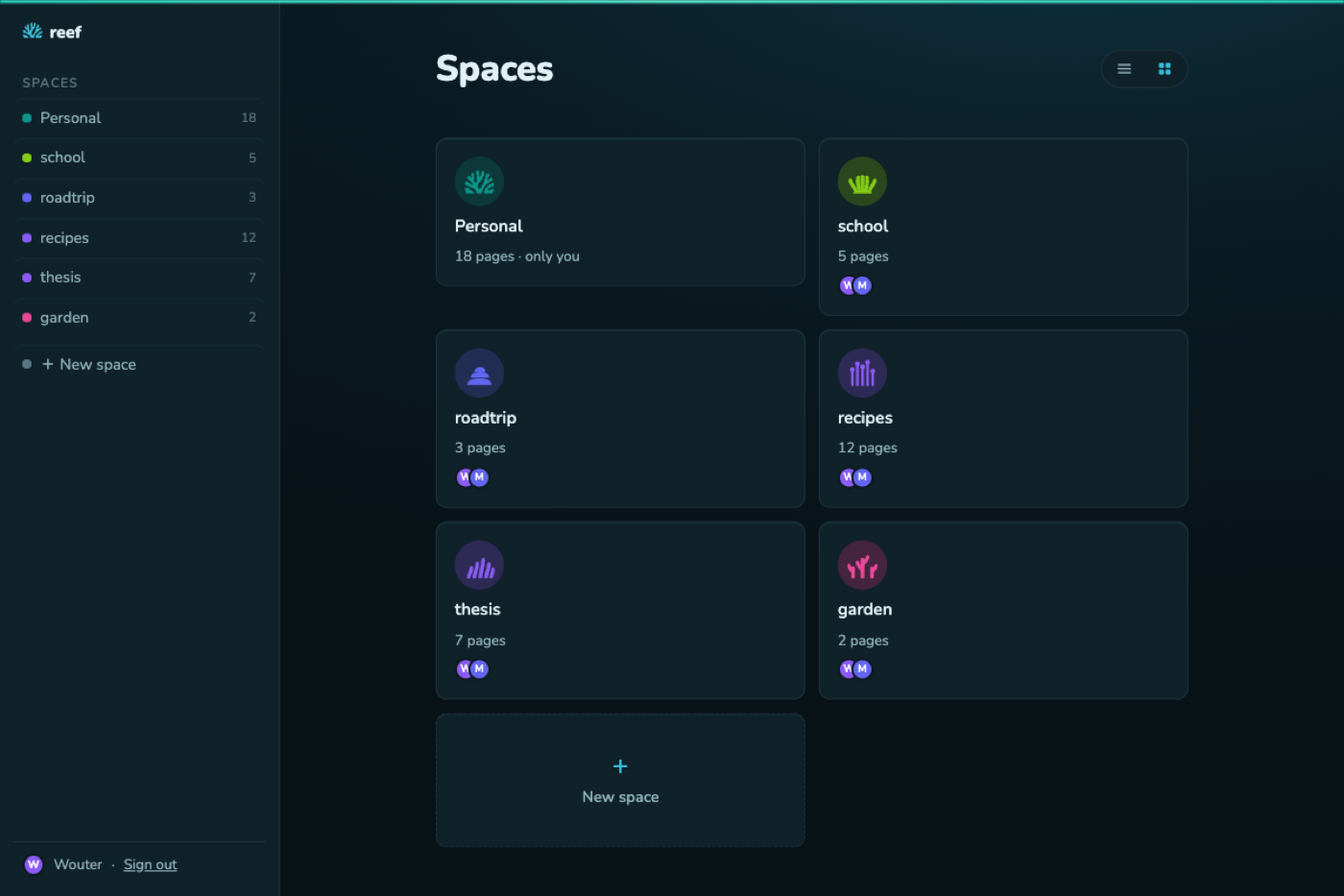
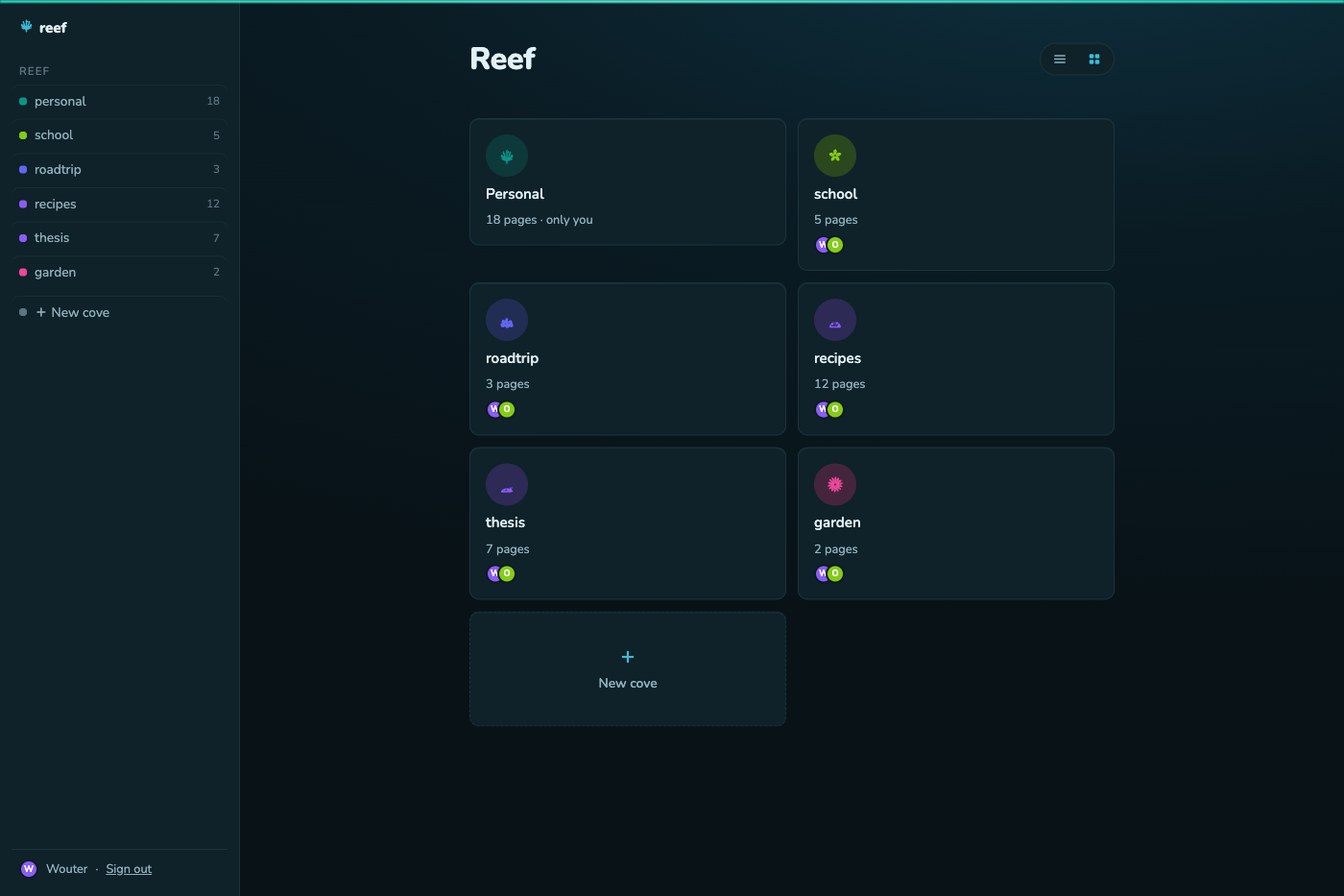
feat: marketing page on the new reef language — real organisms, cove copy, fresh shots
Inline defs are emitted from organisms.ts (scripts/emit-site-organisms.ts)
so the site shows exactly what those coves would grow: household/bubbles,
schoolrun/nudibranch, accountant/scallop, trip/staghorn, personal coral.
Strip shows all 11 families plus the brand coral; a 6-organism variant
swaps in under 640px. App screenshots recaptured from the redesigned app
(light + night-dive dark).

diff --git a/site/index.html b/site/index.html
@@ -4,7 +4,7 @@
 <meta charset="utf-8">
 <meta name="viewport" content="width=device-width, initial-scale=1">
 <title>reef — memory you grow together</title>
-<meta name="description" content="reef is a shared, living memory for you and your people — one your AI assistant can read and write. Spaces for your household, your plans, your life.">
+<meta name="description" content="reef is a shared, living memory for you and your people — one your AI assistant can read and write. Coves for your household, your plans, your life.">
 <link rel="icon" type="image/svg+xml" href="/favicon.svg">
 <style>
 @font-face {
@@ -21,7 +21,7 @@
   --field: #ffffff; --night: var(--ground);
   --cta-ink: #ffffff;
   --seafoam: #0d9488; --amber: #f59e0b; --indigo: #6366f1; --pink: #ec4899;
-  --sky: #0284c7; --lime: #84cc16; --violet: #8b5cf6;
+  --sky: #0284c7; --lime: #84cc16; --violet: #8b5cf6; --orange: #f97316;
 }
 @media (prefers-color-scheme: dark) {
   :root {
@@ -32,7 +32,7 @@
     --night: radial-gradient(120% 80% at 80% -10%, #0e3140, #0a1b23 45%, #081217);
     --cta-ink: #06282e;
     --seafoam: #2dd4bf; --amber: #fbbf24; --indigo: #a5b4fc; --pink: #f9a8d4;
-    --sky: #7dd3fc; --lime: #bef264; --violet: #c4b5fd;
+    --sky: #7dd3fc; --lime: #bef264; --violet: #c4b5fd; --orange: #fdba74;
   }
 }
 * { box-sizing: border-box; }
@@ -70,8 +70,10 @@ nav .cta { margin-left: auto; }
 .hero .btn { font-size: 1.05rem; padding: 0.75rem 1.8rem; }
 .hero .micro { font-size: 0.85rem; color: var(--faint); margin: 0; }
 
-/* seabed strip */
+/* seabed strip — full reef on desktop, a closer crop under 640px */
 .strip { display: block; width: 100%; height: auto; margin-top: 2.5rem; }
+.strip-m { display: none; }
+@media (max-width: 640px) { .strip-d { display: none; } .strip-m { display: block; } }
 .strip .bed { stroke: var(--accent); opacity: 0.5; }
 .sway { transform-box: fill-box; transform-origin: 50% 100%; animation: sway 5.5s ease-in-out infinite alternate; }
 @keyframes sway { from { transform: rotate(-2.4deg); } to { transform: rotate(2.4deg); } }
@@ -121,12 +123,12 @@ footer a { color: var(--muted); }
 </style>
 </head>
 <body>
-<svg width="0" height="0" style="position:absolute" aria-hidden="true"><defs><g id="o-coral"><g fill="currentColor"><g transform="translate(3.400,13.333) scale(0.17544)"><g transform="translate(0,314) scale(0.1,-0.1)"><path d="M1441 2805 c-40 -8 -78 -18 -84 -24 -7 -7 2 -69 29 -203 37 -181 39 -204 39 -368 0 -197 -16 -264 -76 -315 -39 -32 -54 -32 -89 3 -48 49 -55 94 -52 329 2 133 -1 234 -8 270 -18 92 -50 181 -67 187 -23 9 -173 -76 -173 -99 0 -2 14 -44 30 -93 67 -200 21 -303 -75 -169 -75 103 -95 127 -107 127 -17 0 -76 -70 -126 -149 l-46 -74 40 -33 c21 -19 84 -64 139 -101 129 -88 205 -165 249 -255 85 -170 11 -184 -169 -32 -124 104 -279 194 -334 194 -23 0 -41 -51 -62 -175 -16 -96 -12 -103 81 -126 83 -21 185 -67 300 -134 41 -24 118 -60 170 -80 52 -20 113 -47 135 -60 93 -54 180 -182 209 -304 8 -33 17 -64 21 -70 4 -7 72 -11 200 -11 219 0 198 -9 210 90 10 77 60 231 105 320 122 241 339 440 633 581 60 28 111 58 114 66 10 25 -78 187 -104 191 -14 2 -55 -24 -130 -84 -155 -125 -204 -149 -219 -109 -16 39 61 187 158 306 68 84 68 84 -24 160 -91 75 -105 80 -134 44 -73 -90 -138 -252 -198 -490 -24 -95 -60 -211 -79 -257 -77 -191 -251 -441 -325 -469 -90 -35 -154 173 -104 338 28 91 81 171 202 304 121 133 179 229 224 369 54 167 84 341 62 359 -35 29 -199 61 -211 41 -4 -7 -11 -67 -16 -134 -12 -185 -46 -296 -102 -330 -41 -25 -60 53 -78 304 -6 85 -16 161 -21 168 -13 15 -41 14 -137 -3z M2640 1847 c-341 -121 -578 -377 -645 -698 -26 -122 -64 -109 315 -109 l330 0 19 31 c33 53 92 247 89 287 l-3 37 -75 -1 c-70 -2 -81 -5 -206 -69 -148 -75 -187 -81 -192 -32 -14 119 253 306 439 307 68 0 74 13 61 132 -17 156 -16 156 -132 115z M495 1478 c-14 -37 56 -301 106 -400 l19 -38 300 0 c331 0 315 -4 279 65 -38 72 -107 133 -204 179 -49 24 -119 65 -155 91 -100 74 -182 109 -267 113 -57 3 -74 1 -78 -10z"/></g></g></g></g><g id="o-anemone"><path d="M19 50c0-3.5 5.5-5.5 13-5.5s13 2 13 5.5z" fill="currentColor"/><g stroke="currentColor" stroke-width="5.2" stroke-linecap="round" fill="none"><path d="M22 45c-2-5-6-8-7-13"/><path d="M27 44c-1-6-2-10-1-16"/><path d="M32 44c0-7 0-11 0-17"/><path d="M37 44c1-6 2-10 1-16"/><path d="M42 45c2-5 6-8 7-13"/></g></g><g id="o-staghorn"><g stroke="currentColor" stroke-width="5" stroke-linecap="round" fill="none"><path d="M32 50V26"/><path d="M32 34C32 29 38 29 39 22"/><path d="M32 42C32 37 26 37 25 30"/><path d="M19 50V38"/><path d="M19 44C19 40 14 40 13 34"/><path d="M45 50V38"/><path d="M45 44C45 40 50 40 51 34"/></g></g><g id="o-kelp"><g stroke="currentColor" stroke-width="5" stroke-linecap="round" fill="none"><path d="M17 50c1-5 4-8 4-13"/><path d="M25 50c1-7 4-11 4-19"/><path d="M33 50c1-9 4-14 4-24"/><path d="M41 50c1-7 4-11 4-18"/><path d="M48 50c1-4 3-7 3-11"/></g></g><g id="o-polyps"><g stroke="currentColor" stroke-width="3.6" stroke-linecap="round" fill="none"><path d="M18 50V33"/><path d="M25 50V25"/><path d="M32 50V29"/><path d="M39 50V23"/><path d="M46 50V35"/></g><g fill="currentColor"><circle cx="18" cy="29" r="3.3"/><circle cx="25" cy="21" r="3.3"/><circle cx="32" cy="25" r="3.3"/><circle cx="39" cy="19" r="3.3"/><circle cx="46" cy="31" r="3.3"/></g></g><g id="o-seagrass"><g fill="currentColor"><path d="M15 50c-1-8 1-14 4-20c1 7 0 14-1 20z"/><path d="M23 50c-1-11 1-19 5-27c2 9 0 19-2 27z"/><path d="M31 50c-1-13 2-22 6-32c2 11-1 22-3 32z"/><path d="M40 50c-1-10 1-17 5-24c2 8 0 16-2 24z"/><path d="M48 50c-1-7 1-12 4-17c1 6 0 11-1 17z"/></g></g><g id="o-brain"><g fill="currentColor"><path d="M15 50c-0.5-6 6-9 17-9c11 0 17 3 16.5 9z"/><path d="M20 40c0-5.5 5-8 13-8c8 0 12.5 2.5 12 8z"/><path d="M25 32c0-4.5 3.5-6.5 8-6.5c4.5 0 7.5 2 7 6.5z"/></g></g></defs></svg>
+<svg width="0" height="0" style="position:absolute" aria-hidden="true"><defs><g id="o-coral"><path d="M32 54V46M32 46Q23.5 44.2 17.9 40.9M32 46Q23.1 40.8 17.2 31.2M32 46Q26.2 37.6 22.3 21.9M32 46Q32 35.8 32 17M32 46Q37.8 37.6 41.7 21.9M32 46Q40.9 40.8 46.8 31.2M32 46Q40.5 44.2 46.1 40.9M23.1 37.1Q19.5 36.2 16.5 34.7M40.9 37.1Q44.5 36.2 47.5 34.7M32 27Q34.2 23.5 35.5 20.9" fill="none" stroke="currentColor" stroke-width="4.4" stroke-linecap="round" stroke-linejoin="round"/></g><g id="o-sunAnemone"><path d="M38.25 32.61C46.6 33.73 50.98 30.75 50.48 28.28C49.98 25.81 44.79 24.76 37.53 29.02ZM37.25 35.44C44.12 40.32 49.39 39.71 50.09 37.29C50.8 34.88 46.69 31.53 38.28 31.93ZM35.05 37.49C38.87 45 43.81 46.91 45.56 45.1C47.31 43.28 45.23 38.41 37.59 34.85ZM32.15 38.28C32.04 46.7 35.53 50.69 37.92 49.9C40.31 49.11 40.73 43.83 35.62 37.13ZM29.21 37.63C25.21 45.04 26.44 50.19 28.93 50.6C31.41 51.01 34.24 46.53 32.83 38.22ZM26.92 35.69C19.93 40.39 18.63 45.52 20.63 47.04C22.64 48.56 27.23 45.91 29.84 37.9ZM25.79 32.9C17.41 33.81 13.87 37.76 14.95 40.04C16.02 42.31 21.31 42.1 27.35 36.22ZM26.08 29.91C18.24 26.83 13.27 28.67 13.17 31.19C13.06 33.71 17.85 35.97 25.92 33.57ZM27.73 27.4C22.22 21.02 16.96 20.35 15.7 22.53C14.43 24.71 17.62 28.94 25.89 30.57ZM30.35 25.94C28.44 17.74 24.1 14.7 21.97 16.04C19.84 17.38 20.69 22.61 27.25 27.89ZM33.36 25.87C35.48 17.72 33.04 13.01 30.53 13.21C28.02 13.4 26.35 18.43 29.71 26.16ZM36.05 27.2C41.72 20.97 41.75 15.67 39.44 14.68C37.12 13.68 33.3 17.36 32.69 25.76ZM37.82 29.64C45.73 26.75 48.22 22.07 46.63 20.12C45.05 18.16 39.96 19.64 35.51 26.79Z" fill="currentColor"/><path d="M24.49 32A7.51 7.51 0 1 0 39.51 32A7.51 7.51 0 1 0 24.49 32ZM29.01 32A2.99 2.99 0 1 0 34.99 32A2.99 2.99 0 1 0 29.01 32Z" fill="currentColor" fill-rule="evenodd"/></g><g id="o-tubes"><path d="M13.39 54L11.1 36.04A4.28 1.93 0 0 1 19.66 36.04L21.52 54ZM12.81 36.04A2.57 1.16 0 1 0 17.95 36.04A2.57 1.16 0 1 0 12.81 36.04Z" fill="currentColor" fill-rule="evenodd"/><path d="M20.75 54L22.58 27.04A4.07 1.83 0 0 1 30.72 27.04L28.49 54ZM24.21 27.04A2.44 1.1 0 1 0 29.09 27.04A2.44 1.1 0 1 0 24.21 27.04Z" fill="currentColor" fill-rule="evenodd"/><path d="M27.15 54L27.73 25.96A4.43 1.99 0 0 1 36.58 25.96L35.56 54ZM29.5 25.96A2.66 1.19 0 1 0 34.81 25.96A2.66 1.19 0 1 0 29.5 25.96Z" fill="currentColor" fill-rule="evenodd"/><path d="M34.75 54L36.54 31.62A3.88 1.74 0 0 1 44.29 31.62L42.11 54ZM38.09 31.62A2.33 1.05 0 1 0 42.74 31.62A2.33 1.05 0 1 0 38.09 31.62Z" fill="currentColor" fill-rule="evenodd"/><path d="M42.51 54L41.06 26.4A4.4 1.98 0 0 1 49.86 26.4L50.88 54ZM42.82 26.4A2.64 1.19 0 1 0 48.1 26.4A2.64 1.19 0 1 0 42.82 26.4Z" fill="currentColor" fill-rule="evenodd"/></g><g id="o-staghorn"><path d="M32 54V45.8M32 45.8Q28.51 38.59 16.21 27.79M25.43 38.31Q24.98 33.88 24.68 30.92M20.41 32.58Q15.02 31.57 11.42 30.89M32 45.8Q38.68 39.47 44.77 29.97M37.62 38.83Q37.76 34.9 37.85 32.27M41.2 34.39Q47.06 33.5 50.97 32.9" fill="none" stroke="currentColor" stroke-width="4" stroke-linecap="round" stroke-linejoin="round"/></g><g id="o-brain"><path d="M15.53 54A16.47 15.88 0 0 1 48.47 54ZM21.49 51.41A1.7 1.7 0 0 1 21.28 48.02L34.45 47.19A1.7 1.7 0 0 1 34.67 50.58ZM27.87 46.94A1.7 1.7 0 0 1 27.88 43.54L38.97 43.58A1.7 1.7 0 0 1 38.95 46.98ZM27.35 44.06A1.7 1.7 0 0 1 27.12 40.67L33.28 40.26A1.7 1.7 0 0 1 33.51 43.65Z" fill="currentColor" fill-rule="evenodd"/></g><g id="o-flower"><path d="M35.3 34.31C44.4 37.28 49.33 33.65 48.89 29.98C48.45 26.31 42.8 23.94 34.66 28.98ZM31.65 36.01C33.62 45.38 39.24 47.83 42.19 45.62C45.15 43.4 44.38 37.33 35.95 32.79ZM28.35 33.7C21.22 40.1 21.91 46.18 25.31 47.64C28.7 49.09 33.58 45.39 33.29 35.82ZM28.7 29.69C19.6 26.72 14.67 30.35 15.11 34.02C15.55 37.69 21.2 40.06 29.34 35.02ZM32.35 27.99C30.38 18.62 24.76 16.17 21.81 18.38C18.85 20.6 19.62 26.67 28.05 31.21ZM35.65 30.3C42.78 23.9 42.09 17.82 38.69 16.36C35.3 14.91 30.42 18.61 30.71 28.18Z" fill="currentColor"/><path d="M26 32A6 6 0 1 0 38 32A6 6 0 1 0 26 32ZM28.43 32A3.57 3.57 0 1 0 35.57 32A3.57 3.57 0 1 0 28.43 32Z" fill="currentColor" fill-rule="evenodd"/></g><g id="o-scallop"><path d="M32 45Q24.14 43.55 22.25 42.36M32 45Q25.08 40.58 22.45 36.96M32 45Q27.87 37.91 26 32.11M32 45Q32 36.83 32 30.14M32 45Q36.13 37.91 38 32.11M32 45Q38.92 40.58 41.55 36.96M32 45Q39.86 43.55 41.75 42.36" fill="none" stroke="currentColor" stroke-width="3.42" stroke-linecap="round" stroke-linejoin="round"/><path d="M27.5 54C27.5 49 29.5 47 30 45L34 45C34.5 47 36.5 49 36.5 54Z" fill="currentColor"/></g><g id="o-spiral"><path d="M28.96 32.36Q23.15 29.23 22.19 21.5M29.11 31.01Q25.23 25.66 27.72 18.29M29.82 29.85Q28.65 23.35 34.09 17.78M30.97 29.12Q32.73 22.75 40.05 20.1M32.32 28.96Q36.67 23.98 44.42 24.77M33.61 29.4Q39.69 26.81 46.32 30.87M34.58 30.36Q41.18 30.66 45.39 37.2M35.04 31.64Q40.85 34.77 41.81 42.5M34.89 32.99Q38.77 38.34 36.28 45.71M34.18 34.15Q35.35 40.65 29.91 46.22M33.03 34.88Q31.27 41.25 23.95 43.9M31.68 35.04Q27.33 40.02 19.58 39.23M30.39 34.6Q24.31 37.19 17.68 33.13M29.42 33.64Q22.82 33.34 18.61 26.8" fill="none" stroke="currentColor" stroke-width="3.09" stroke-linecap="round" stroke-linejoin="round"/></g><g id="o-bubbles"><path d="M15.29 48.39A6.54 6.54 0 1 0 28.38 48.39A6.54 6.54 0 1 0 15.29 48.39ZM25.02 47.68A6.54 6.54 0 1 0 38.11 47.68A6.54 6.54 0 1 0 25.02 47.68ZM37.02 47.31A6.54 6.54 0 1 0 50.11 47.31A6.54 6.54 0 1 0 37.02 47.31ZM14.92 37.22A6.29 6.29 0 1 0 27.51 37.22A6.29 6.29 0 1 0 14.92 37.22ZM24.99 37.05A6.29 6.29 0 1 0 37.57 37.05A6.29 6.29 0 1 0 24.99 37.05ZM35.9 36.55A6.29 6.29 0 1 0 48.48 36.55A6.29 6.29 0 1 0 35.9 36.55ZM26.65 28.77A4.48 4.48 0 1 0 35.62 28.77A4.48 4.48 0 1 0 26.65 28.77Z" fill="currentColor"/></g><g id="o-seagrass"><path d="M13.56 54C13.91 40.39 7.71 31.31 8.96 23.75C9.49 32.82 20.49 41.9 20.67 54ZM19.26 54C19.63 43.65 15.49 36.75 16.8 31C17.36 37.9 26.55 44.8 26.74 54ZM24.8 54C25.1 40.95 18.96 32.25 20.03 25C20.48 33.7 30.73 42.4 30.88 54ZM31.28 54C31.62 40.64 25.55 31.73 26.77 24.31C27.29 33.22 38.1 42.12 38.27 54ZM36.68 54C37.01 41.66 31.4 33.44 32.53 26.59C33.02 34.81 43 43.04 43.16 54ZM44.52 54C44.91 45.65 42.05 40.09 43.42 35.45C44 41.02 52.12 46.58 52.31 54Z" fill="currentColor"/></g><g id="o-shell"><path d="M32 52L17.48 42.55A3.07 3.07 0 0 1 20.71 38.87A3.07 3.07 0 0 1 24.84 36.23A3.07 3.07 0 0 1 29.55 34.86A3.07 3.07 0 0 1 34.45 34.86A3.07 3.07 0 0 1 39.16 36.23A3.07 3.07 0 0 1 43.29 38.87A3.07 3.07 0 0 1 46.52 42.55ZM30.24 47.44A1.1 1.1 0 0 1 28.42 48.68L23.07 40.8A1.1 1.1 0 0 1 24.89 39.56ZM32.14 47.11A1.1 1.1 0 0 1 29.98 47.55L28.1 38.21A1.1 1.1 0 0 1 30.26 37.78ZM34.02 47.55A1.1 1.1 0 0 1 31.86 47.11L33.74 37.78A1.1 1.1 0 0 1 35.9 38.21ZM35.58 48.68A1.1 1.1 0 0 1 33.76 47.44L39.11 39.56A1.1 1.1 0 0 1 40.93 40.8Z" fill="currentColor" fill-rule="evenodd"/></g><g id="o-nudibranch"><path d="M17.88 54C17.88 49.78 24.94 42.63 32 42.63C39.76 42.63 46.12 47.75 46.12 50.59C46.12 53.43 40.47 54 32 54ZM23.55 48.65A1.39 1.39 0 1 0 26.33 48.65A1.39 1.39 0 1 0 23.55 48.65ZM26.86 49.56A1.26 1.26 0 1 0 29.38 49.56A1.26 1.26 0 1 0 26.86 49.56ZM30.08 48.45A1.22 1.22 0 1 0 32.51 48.45A1.22 1.22 0 1 0 30.08 48.45ZM32.94 49.78A1.53 1.53 0 1 0 36 49.78A1.53 1.53 0 1 0 32.94 49.78Z" fill="currentColor" fill-rule="evenodd"/><path d="M42.16 45.13C43.16 42.13 44.16 41.13 44.66 39.13M38.16 45.13C39.16 42.13 40.16 41.13 40.66 39.13" fill="none" stroke="currentColor" stroke-width="2.2" stroke-linecap="round" stroke-linejoin="round"/></g><g id="o-cove-household"><path d="M13.44 46.61A7.2 7.2 0 1 0 27.83 46.61A7.2 7.2 0 1 0 13.44 46.61ZM25.29 46.94A7.2 7.2 0 1 0 39.69 46.94A7.2 7.2 0 1 0 25.29 46.94ZM37.68 47.17A7.2 7.2 0 1 0 52.08 47.17A7.2 7.2 0 1 0 37.68 47.17ZM17.65 37.17A5.03 5.03 0 1 0 27.7 37.17A5.03 5.03 0 1 0 17.65 37.17ZM26.91 37.7A5.03 5.03 0 1 0 36.96 37.7A5.03 5.03 0 1 0 26.91 37.7ZM35.14 37.28A5.03 5.03 0 1 0 45.19 37.28A5.03 5.03 0 1 0 35.14 37.28ZM21.99 28.84A5 5 0 1 0 31.99 28.84A5 5 0 1 0 21.99 28.84ZM32.05 30.33A5 5 0 1 0 42.05 30.33A5 5 0 1 0 32.05 30.33Z" fill="currentColor"/></g><g id="o-cove-schoolrun"><path d="M16.15 54C16.15 48.48 24.08 43.77 32 43.77C40.72 43.77 47.85 48.37 47.85 50.93C47.85 53.49 41.51 54 32 54ZM22.89 50.13A1.19 1.19 0 1 0 25.26 50.13A1.19 1.19 0 1 0 22.89 50.13ZM29.63 48.25A1.58 1.58 0 1 0 32.79 48.25A1.58 1.58 0 1 0 29.63 48.25Z" fill="currentColor" fill-rule="evenodd"/><path d="M43.41 46.02C44.41 43.02 45.41 42.02 45.91 40.02M39.41 46.02C40.41 43.02 41.41 42.02 41.91 40.02" fill="none" stroke="currentColor" stroke-width="2.2" stroke-linecap="round" stroke-linejoin="round"/></g><g id="o-cove-accountant"><path d="M32 45Q24.16 44.01 22.29 43.21M32 45Q24.97 40.97 22.26 37.67M32 45Q27.75 38.16 25.8 32.57M32 45Q32 37.01 32 30.48M32 45Q36.25 38.16 38.2 32.57M32 45Q39.03 40.97 41.74 37.67M32 45Q39.84 44.01 41.71 43.21" fill="none" stroke="currentColor" stroke-width="3.58" stroke-linecap="round" stroke-linejoin="round"/><path d="M27.5 54C27.5 49 29.5 47 30 45L34 45C34.5 47 36.5 49 36.5 54Z" fill="currentColor"/></g><g id="o-cove-trip"><path d="M32 54V47.32M32 47.32Q27.9 41.74 15.43 33.36M25.31 41.68Q24.87 38.07 24.57 35.67M21.2 38.22Q16.95 37.92 14.11 37.73M32 47.32Q35.59 37.14 33.68 21.88M32.71 36.53Q28.92 32.18 26.39 29.28M33.25 28.49Q36.29 24.85 38.32 22.42M32 47.32Q40.14 41.33 50.19 32.33M38.19 42.22Q43.21 42.95 46.56 43.44M43.92 37.5Q45.95 32.31 47.3 28.86" fill="none" stroke="currentColor" stroke-width="4" stroke-linecap="round" stroke-linejoin="round"/></g></defs></svg>
 
 <div class="wrap">
   <nav>
     <a class="brand" href="/">
-      <svg viewBox="11 15.5 42 34.5" width="24" height="20" preserveAspectRatio="xMidYMax meet" aria-hidden="true"><use href="#o-coral"/></svg>
+      <svg viewBox="11 11.5 42 45" width="20" height="21" preserveAspectRatio="xMidYMax meet" aria-hidden="true"><use href="#o-coral"/></svg>
       reef
     </a>
     <span class="cta"><a class="btn" href="/api/auth/login">Sign in</a></span>
@@ -135,7 +137,7 @@ footer a { color: var(--muted); }
   <header class="hero">
     <h1>Memory you grow together.</h1>
     <p class="lede">reef is a shared, living memory for you and your people — and for the AI you
-      both talk to. Spaces for your household, your plans, your life. Pages everyone can read.
+      both talk to. Coves for your household, your plans, your life. Pages everyone can read.
       An assistant that finally remembers.</p>
     <div class="ctarow">
       <a class="btn" href="/api/auth/login">Sign in</a>
@@ -144,19 +146,23 @@ footer a { color: var(--muted); }
   </header>
 </div>
 
-<svg class="strip" viewBox="0 0 1200 78" preserveAspectRatio="xMidYMax meet" aria-hidden="true">
+<svg class="strip strip-d" viewBox="0 0 1200 78" preserveAspectRatio="xMidYMax meet" aria-hidden="true">
   <line class="bed" x1="24" y1="64" x2="1176" y2="64" stroke-width="3" stroke-linecap="round"/>
-  <g transform="translate(60,64) scale(0.9) translate(-32,-50)" style="color:var(--sky)"><g class="sway" style="animation-delay:0s"><use href="#o-kelp"/></g></g><g transform="translate(150,64) scale(0.7) translate(-32,-50)" style="color:var(--lime)"><g class="sway" style="animation-delay:1.3s"><use href="#o-seagrass"/></g></g><g transform="translate(235,64) scale(1.0) translate(-32,-50)" style="color:var(--amber)"><g class="sway" style="animation-delay:0.6s"><use href="#o-anemone"/></g></g><g transform="translate(330,64) scale(0.8) translate(-32,-50)" style="color:var(--indigo)"><g class="sway" style="animation-delay:2.1s"><use href="#o-polyps"/></g></g><g transform="translate(430,64) scale(0.85) translate(-32,-50)" style="color:var(--violet)"><g class="sway" style="animation-delay:0s"><use href="#o-brain"/></g></g><g transform="translate(530,64) scale(1.05) translate(-32,-50)" style="color:var(--pink)"><g class="sway" style="animation-delay:1.7s"><use href="#o-staghorn"/></g></g><g transform="translate(640,64) scale(1.25) translate(-32,-50)" style="color:var(--seafoam)"><g class="sway" style="animation-delay:0.9s"><use href="#o-coral"/></g></g><g transform="translate(760,64) scale(0.75) translate(-32,-50)" style="color:var(--lime)"><g class="sway" style="animation-delay:2.4s"><use href="#o-kelp"/></g></g><g transform="translate(845,64) scale(0.85) translate(-32,-50)" style="color:var(--pink)"><g class="sway" style="animation-delay:0.3s"><use href="#o-anemone"/></g></g><g transform="translate(940,64) scale(1.0) translate(-32,-50)" style="color:var(--sky)"><g class="sway" style="animation-delay:1.5s"><use href="#o-seagrass"/></g></g><g transform="translate(1035,64) scale(0.7) translate(-32,-50)" style="color:var(--amber)"><g class="sway" style="animation-delay:2.0s"><use href="#o-polyps"/></g></g><g transform="translate(1120,64) scale(0.8) translate(-32,-50)" style="color:var(--indigo)"><g class="sway" style="animation-delay:0.8s"><use href="#o-staghorn"/></g></g>
+  <g transform="translate(60,64) scale(0.9) translate(-32,-54)" style="color:var(--sky)"><g class="sway" style="animation-delay:0s"><use href="#o-seagrass"/></g></g><g transform="translate(150,64) scale(0.7) translate(-32,-54)" style="color:var(--lime)"><g class="sway" style="animation-delay:1.3s"><use href="#o-bubbles"/></g></g><g transform="translate(235,64) scale(1.0) translate(-32,-51)" style="color:var(--amber)"><g class="sway" style="animation-delay:0.6s"><use href="#o-sunAnemone"/></g></g><g transform="translate(330,64) scale(0.8) translate(-32,-54)" style="color:var(--indigo)"><g class="sway" style="animation-delay:2.1s"><use href="#o-tubes"/></g></g><g transform="translate(430,64) scale(0.85) translate(-32,-54)" style="color:var(--violet)"><g class="sway" style="animation-delay:0s"><use href="#o-brain"/></g></g><g transform="translate(530,64) scale(1.05) translate(-32,-54)" style="color:var(--pink)"><g class="sway" style="animation-delay:1.7s"><use href="#o-staghorn"/></g></g><g transform="translate(640,64) scale(1.25) translate(-32,-54)" style="color:var(--seafoam)"><g class="sway" style="animation-delay:0.9s"><use href="#o-coral"/></g></g><g transform="translate(760,64) scale(0.75) translate(-32,-48)" style="color:var(--lime)"><g class="sway" style="animation-delay:2.4s"><use href="#o-flower"/></g></g><g transform="translate(845,64) scale(0.85) translate(-32,-54)" style="color:var(--pink)"><g class="sway" style="animation-delay:0.3s"><use href="#o-shell"/></g></g><g transform="translate(940,64) scale(1.0) translate(-32,-46.2)" style="color:var(--sky)"><g class="sway" style="animation-delay:1.5s"><use href="#o-spiral"/></g></g><g transform="translate(1035,64) scale(0.7) translate(-32,-54)" style="color:var(--amber)"><g class="sway" style="animation-delay:2.0s"><use href="#o-scallop"/></g></g><g transform="translate(1120,64) scale(0.8) translate(-32,-54)" style="color:var(--indigo)"><g class="sway" style="animation-delay:0.8s"><use href="#o-nudibranch"/></g></g>
+</svg>
+<svg class="strip strip-m" viewBox="0 0 600 78" preserveAspectRatio="xMidYMax meet" aria-hidden="true">
+  <line class="bed" x1="16" y1="64" x2="584" y2="64" stroke-width="3" stroke-linecap="round"/>
+  <g transform="translate(55,64) scale(0.85) translate(-32,-54)" style="color:var(--sky)"><g class="sway" style="animation-delay:0s"><use href="#o-seagrass"/></g></g><g transform="translate(150,64) scale(0.8) translate(-32,-51)" style="color:var(--amber)"><g class="sway" style="animation-delay:0.6s"><use href="#o-sunAnemone"/></g></g><g transform="translate(245,64) scale(0.75) translate(-32,-54)" style="color:var(--indigo)"><g class="sway" style="animation-delay:2.1s"><use href="#o-tubes"/></g></g><g transform="translate(340,64) scale(1.05) translate(-32,-54)" style="color:var(--seafoam)"><g class="sway" style="animation-delay:0.9s"><use href="#o-coral"/></g></g><g transform="translate(440,64) scale(0.9) translate(-32,-54)" style="color:var(--pink)"><g class="sway" style="animation-delay:1.7s"><use href="#o-staghorn"/></g></g><g transform="translate(540,64) scale(0.8) translate(-32,-48)" style="color:var(--lime)"><g class="sway" style="animation-delay:2.4s"><use href="#o-flower"/></g></g>
 </svg>
 
 <div class="wrap">
   <section>
-    <p class="eyebrow">Spaces</p>
-    <h2>A space for every circle of your life</h2>
-    <p class="sub">A space is a small group and its shared memory: the people you invite, the pages
+    <p class="eyebrow">Coves</p>
+    <h2>A cove for every circle of your life</h2>
+    <p class="sub">A cove is a small group and its shared memory: the people you invite, the pages
       you keep, its own color and creature. Start one for anything that has a "we" — and everyone
-      always keeps a private space that's theirs alone.</p>
-    <div class="circles"><div class="circle"><span class="pool"><svg viewBox="11 15 42 37" width="27" height="24" preserveAspectRatio="xMidYMax meet" style="color:var(--seafoam)" aria-hidden="true"><use href="#o-coral"/></svg></span><span>the household</span></div><div class="circle"><span class="pool"><svg viewBox="11 15 42 37" width="27" height="24" preserveAspectRatio="xMidYMax meet" style="color:var(--lime)" aria-hidden="true"><use href="#o-anemone"/></svg></span><span>school</span></div><div class="circle"><span class="pool"><svg viewBox="11 15 42 37" width="27" height="24" preserveAspectRatio="xMidYMax meet" style="color:var(--indigo)" aria-hidden="true"><use href="#o-brain"/></svg></span><span>the accountant</span></div><div class="circle"><span class="pool"><svg viewBox="11 15 42 37" width="27" height="24" preserveAspectRatio="xMidYMax meet" style="color:var(--sky)" aria-hidden="true"><use href="#o-kelp"/></svg></span><span>roadtrip</span></div><div class="circle"><span class="pool"><svg viewBox="11 15 42 37" width="27" height="24" preserveAspectRatio="xMidYMax meet" style="color:var(--violet)" aria-hidden="true"><use href="#o-polyps"/></svg></span><span>just you</span></div></div>
+      always keeps a private cove that's theirs alone.</p>
+    <div class="circles"><div class="circle"><span class="pool"><svg viewBox="0 0 64 64" width="28" height="28" style="color:var(--violet)" aria-hidden="true"><use href="#o-cove-household"/></svg></span><span>the household</span></div><div class="circle"><span class="pool"><svg viewBox="0 0 64 64" width="28" height="28" style="color:var(--pink)" aria-hidden="true"><use href="#o-cove-schoolrun"/></svg></span><span>the school run</span></div><div class="circle"><span class="pool"><svg viewBox="0 0 64 64" width="28" height="28" style="color:var(--indigo)" aria-hidden="true"><use href="#o-cove-accountant"/></svg></span><span>the accountant</span></div><div class="circle"><span class="pool"><svg viewBox="0 0 64 64" width="28" height="28" style="color:var(--orange)" aria-hidden="true"><use href="#o-cove-trip"/></svg></span><span>the trip</span></div><div class="circle"><span class="pool"><svg viewBox="0 0 64 64" width="28" height="28" style="color:var(--seafoam)" aria-hidden="true"><use href="#o-coral"/></svg></span><span>just you</span></div></div>
   </section>
 
   <section>
@@ -164,9 +170,9 @@ footer a { color: var(--muted); }
     <h2>Tell it once</h2>
     <div class="steps">
       <div class="step">
-        <h3>Start a space, invite your people</h3>
+        <h3>Start a cove, invite your people</h3>
         <p>Your household, the school circle, you and the accountant. Invites go by email; whoever
-          starts a space looks after it.</p>
+          starts a cove looks after it.</p>
       </div>
       <div class="step">
         <h3>Grow pages together</h3>
@@ -184,12 +190,12 @@ footer a { color: var(--muted); }
   <section>
     <p class="eyebrow">The app</p>
     <h2>Browse it like people do</h2>
-    <p class="sub">Every space and page is right there in the browser — read, edit, invite, export.
+    <p class="sub">Every cove and page is right there in the browser — read, edit, invite, export.
       What your assistant knows is exactly what you can see.</p>
     <div class="shotframe">
       <div class="shotbar"><i></i><i></i><i></i></div>
-      <img class="shot-light" src="/site/app-light.png" alt="The reef app: spaces shown as tiles, each with its own color and reef creature" width="1400" height="933">
-      <img class="shot-dark" src="/site/app-dark.png" alt="The reef app in night-dive dark mode: glowing space tiles on a deep-water background" width="1400" height="933">
+      <img class="shot-light" src="/site/app-light.png" alt="The reef app: coves shown as tiles, each with its own color and reef creature" width="1400" height="933">
+      <img class="shot-dark" src="/site/app-dark.png" alt="The reef app in night-dive dark mode: glowing cove tiles on a deep-water background" width="1400" height="933">
     </div>
   </section>
 
@@ -198,17 +204,17 @@ footer a { color: var(--muted); }
     <h2>Built to be trusted with a life</h2>
     <div class="trust">
       <article>
-        <h3><svg viewBox="11 15 42 37" width="20" height="18" preserveAspectRatio="xMidYMax meet" style="color:var(--indigo)" aria-hidden="true"><use href="#o-polyps"/></svg> Private by architecture</h3>
-        <p>Your personal space is invisible to everyone else — enforced row by row in the database
+        <h3><svg viewBox="0 0 64 64" width="20" height="20" style="color:var(--indigo)" aria-hidden="true"><use href="#o-shell"/></svg> Private by architecture</h3>
+        <p>Your personal cove is invisible to everyone else — enforced row by row in the database
           itself, not by app code promising to behave.</p>
       </article>
       <article>
-        <h3><svg viewBox="11 15 42 37" width="20" height="18" preserveAspectRatio="xMidYMax meet" style="color:var(--amber)" aria-hidden="true"><use href="#o-anemone"/></svg> Sharing is consent</h3>
-        <p>Nothing moves from private to shared without an explicit yes, and a shared space always
+        <h3><svg viewBox="0 0 64 64" width="20" height="20" style="color:var(--amber)" aria-hidden="true"><use href="#o-flower"/></svg> Sharing is consent</h3>
+        <p>Nothing moves from private to shared without an explicit yes, and a shared cove always
           shows exactly who can read it.</p>
       </article>
       <article>
-        <h3><svg viewBox="11 15 42 37" width="20" height="18" preserveAspectRatio="xMidYMax meet" style="color:var(--lime)" aria-hidden="true"><use href="#o-seagrass"/></svg> Leave with everything</h3>
+        <h3><svg viewBox="0 0 64 64" width="20" height="20" style="color:var(--lime)" aria-hidden="true"><use href="#o-nudibranch"/></svg> Leave with everything</h3>
         <p>One export turns every page into plain files on your machine. Your memory outlives any
           service — including this one.</p>
       </article>
@@ -217,7 +223,7 @@ footer a { color: var(--muted); }
 
   <section class="final">
     <div class="lockup">
-      <svg viewBox="11 15.5 42 34.5" width="42" height="35" preserveAspectRatio="xMidYMax meet" aria-hidden="true"><use href="#o-coral"/></svg>
+      <svg viewBox="11 11.5 42 45" width="37" height="40" preserveAspectRatio="xMidYMax meet" aria-hidden="true"><use href="#o-coral"/></svg>
       <span>reef</span>
     </div>
     <p class="sub" style="margin: 0 auto 1.6rem;">memory that grows like a reef</p>

diff --git a/frontend/scripts/emit-site-organisms.ts b/frontend/scripts/emit-site-organisms.ts
@@ -1,0 +1,50 @@
+/**
+ * Emits the marketing site's inline organism `<defs>` plus per-alias
+ * family/hue assignments, generated by the real `organisms.ts` pipeline so
+ * the site shows exactly what those coves would grow in the app.
+ * Run: bun run scripts/emit-site-organisms.ts
+ */
+import {
+  CORAL_PATHS,
+  FAMILIES,
+  generateFamily,
+  organismFor,
+  type OrganismPath,
+} from "../src/components/organisms";
+import { spaceColor } from "../src/components/spaceColor";
+
+function pathsToMarkup(paths: readonly OrganismPath[]): string {
+  return paths
+    .map((p) =>
+      p.stroke !== undefined
+        ? `<path d="${p.d}" fill="none" stroke="currentColor" stroke-width="${p.stroke}" stroke-linecap="round" stroke-linejoin="round"/>`
+        : `<path d="${p.d}" fill="currentColor"${p.evenodd ? ' fill-rule="evenodd"' : ""}/>`,
+    )
+    .join("");
+}
+
+/** One hand-picked seed per family for the seabed strip. */
+const STRIP_SEEDS: Record<string, number> = {
+  sunAnemone: 1, tubes: 5, staghorn: 2, brain: 8, flower: 1, scallop: 2,
+  spiral: 3, bubbles: 1, seagrass: 2, shell: 5, nudibranch: 3,
+};
+
+console.log(`<g id="o-coral">${pathsToMarkup(CORAL_PATHS)}</g>`);
+for (const fam of FAMILIES) {
+  const org = generateFamily(fam, STRIP_SEEDS[fam]!);
+  console.log(`<g id="o-${fam}">${pathsToMarkup(org.paths)}</g>`);
+}
+
+const HUE_VARS: Record<string, string> = {
+  "#f59e0b": "--amber", "#6366f1": "--indigo", "#ec4899": "--pink",
+  "#0284c7": "--sky", "#84cc16": "--lime", "#8b5cf6": "--violet",
+  "#f97316": "--orange", "#0d9488": "--seafoam",
+};
+
+console.log("\n# circle aliases (family / hue var / def markup):");
+for (const alias of ["household", "schoolrun", "accountant", "trip"]) {
+  const org = organismFor(alias);
+  const hue = spaceColor(alias);
+  console.log(`## ${alias}: ${org.family} ${HUE_VARS[hue.base] ?? hue.base}`);
+  console.log(`<g id="o-cove-${alias}">${pathsToMarkup(org.paths)}</g>`);
+}

diff --git a/frontend/src/components/organisms.ts b/frontend/src/components/organisms.ts
@@ -203,7 +203,7 @@ function spiral(rng: Rng): OrganismPath[] {
       `Q${r2(32 + Math.cos(thMid) * mid)} ${r2(32 + Math.sin(thMid) * mid)}` +
       ` ${r2(32 + Math.cos(thEnd) * outer)} ${r2(32 + Math.sin(thEnd) * outer)}`;
   }
-  return [{ d, stroke: lerp(rng, 2.8, 3.4) }];
+  return [{ d, stroke: Math.round(lerp(rng, 2.8, 3.4) * 100) / 100 }];
 }
 
 const RADIAL: ReadonlySet<string> = new Set(["sunAnemone", "flower", "spiral"]);
@@ -331,7 +331,7 @@ function scallop(rng: Rng): OrganismPath[] {
     rays += `M32 ${baseY}Q${r2(mx)} ${r2(my)} ${r2(ex)} ${r2(ey)}`;
   }
   const foot = `M27.5 54C27.5 49 29.5 47 30 ${r2(baseY)}L34 ${r2(baseY)}C34.5 47 36.5 49 36.5 54Z`;
-  return [{ d: rays, stroke: lerp(rng, 3.2, 3.6) }, { d: foot }];
+  return [{ d: rays, stroke: Math.round(lerp(rng, 3.2, 3.6) * 100) / 100 }, { d: foot }];
 }
 
 /** Scallop-rimmed clam fan with radial rib slots. */
